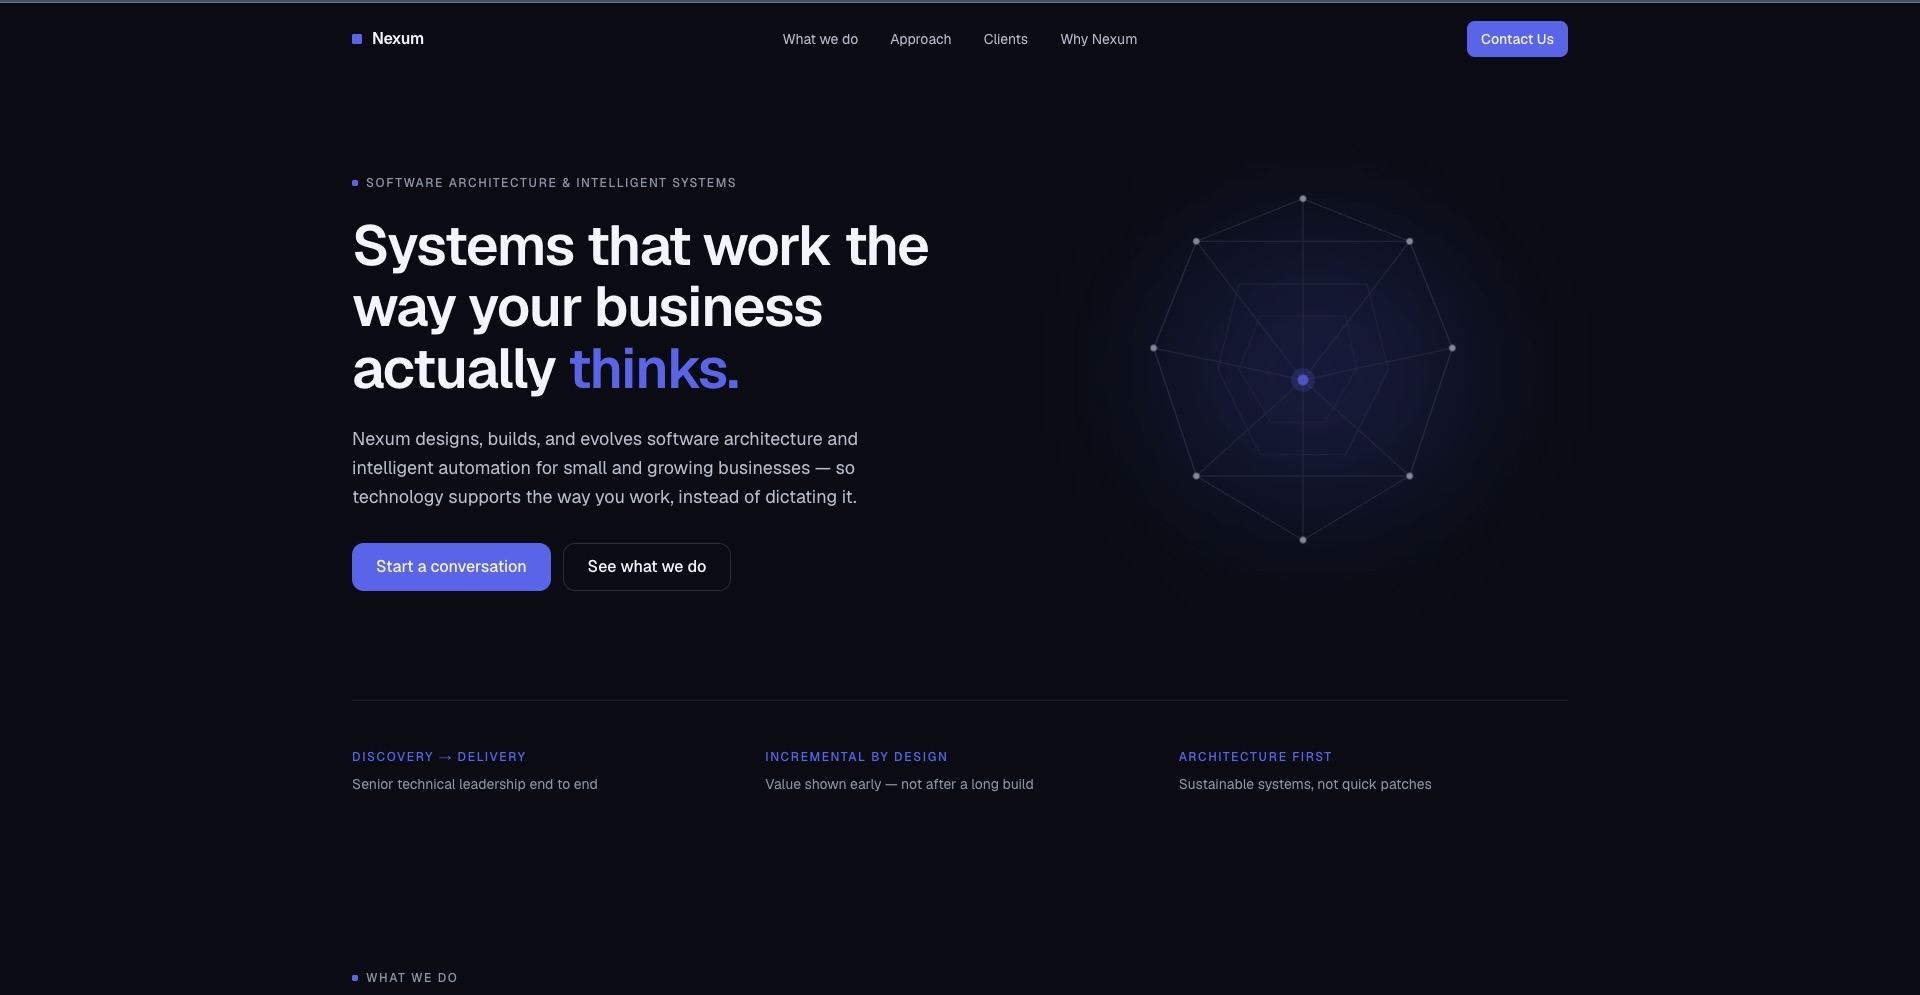
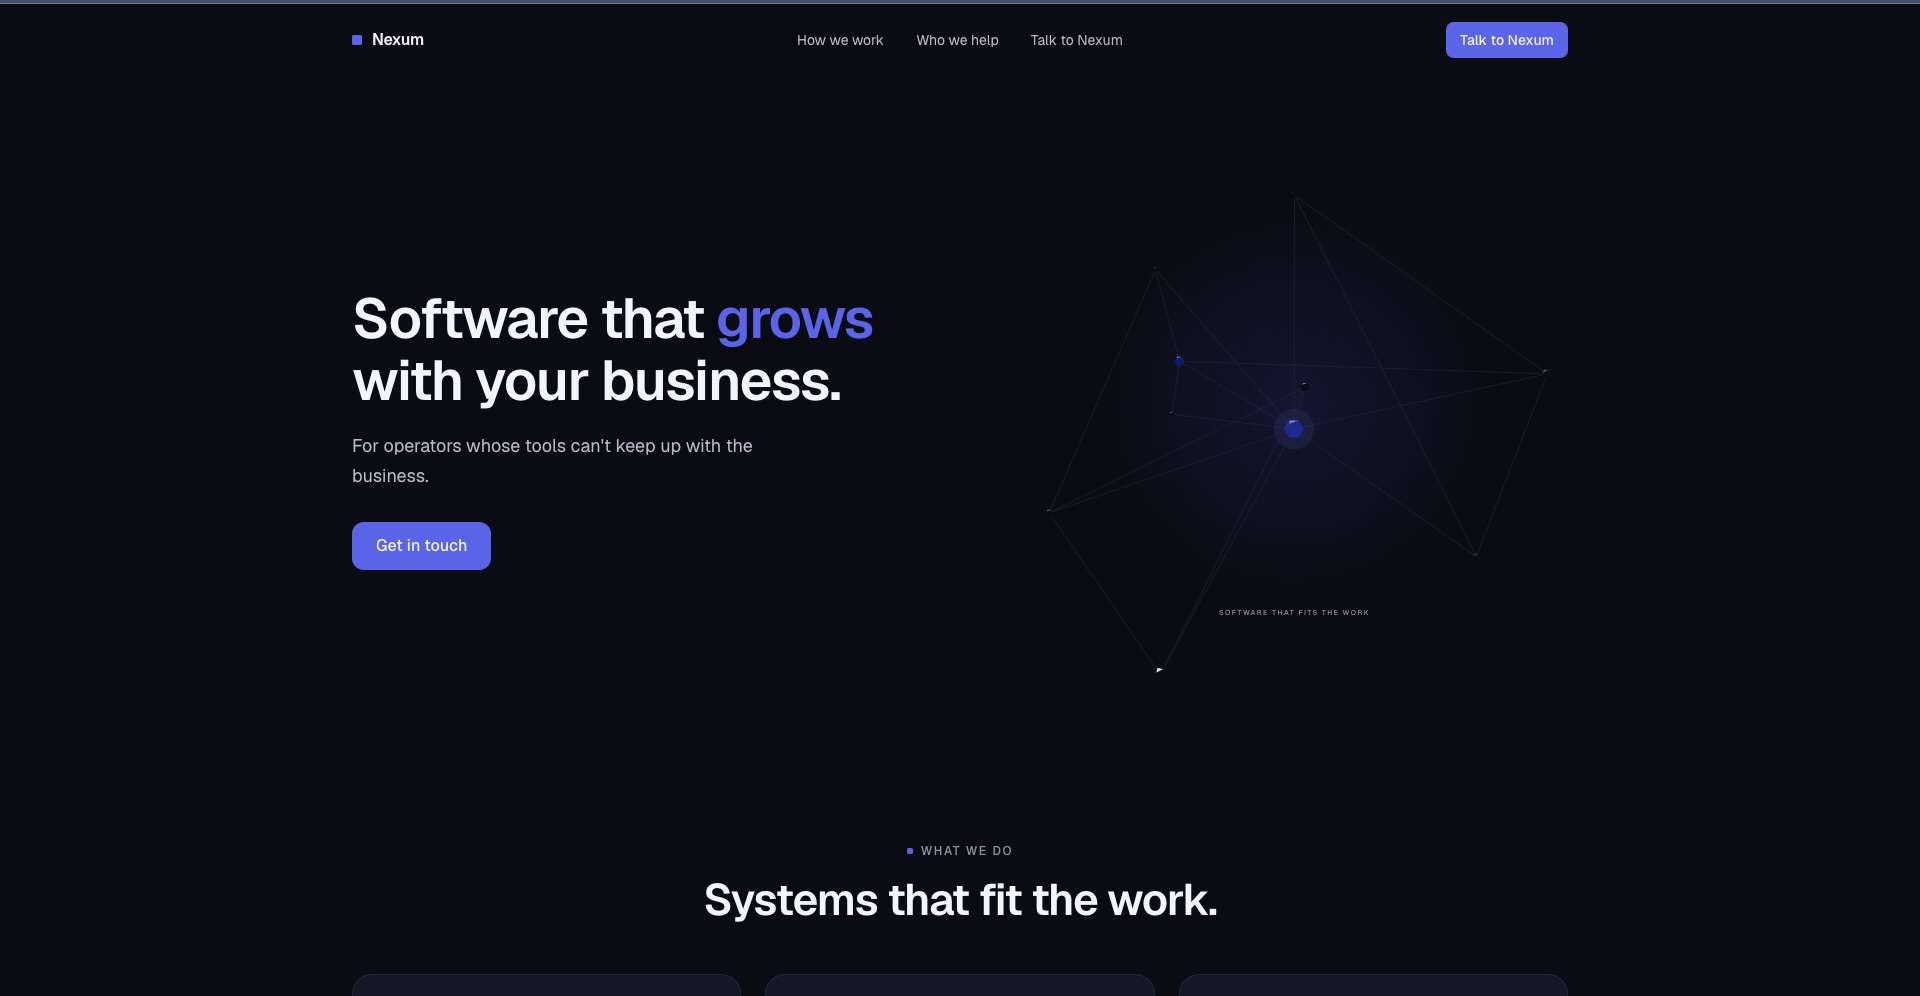
Refine Work flagship and site copy for a calmer, more formal voice.
Update Nexum screenshots and credit, tighten Hero/About/Contact wording, and simplify the Work layout to match the quieter product aesthetic.

diff --git a/components/FlagshipProject.tsx b/components/FlagshipProject.tsx
@@ -1,7 +1,5 @@
 import Image from 'next/image'
 import Link from 'next/link'
-import { TbExternalLink } from 'react-icons/tb'
-import TechTag from './TechTag'
 import type { Project } from '@/utils/projectsData'
 
 type FlagshipProjectProps = {
@@ -18,47 +16,48 @@ const FlagshipProject = ({ project }: FlagshipProjectProps) => {
     secondaryImageAlt,
     tags,
     liveUrl,
-    role = 'Commercial product',
+    role = 'Brand site',
     year,
   } = project
 
   return (
     <article className="w-full">
-      <div className="mb-8 max-w-2xl md:mb-10">
-        <p className="mb-3 text-xs tracking-wide text-accent">
+      <div className="mb-10 max-w-2xl md:mb-14">
+        <p className="mb-4 text-[0.65rem] uppercase tracking-[0.18em] text-body/70">
+          <span className="mr-1.5 text-accent" aria-hidden>
+            •
+          </span>
           {role}
-          {year ? <span className="text-body/60"> · {year} · Solo</span> : null}
+          {year ? ` · ${year}` : null}
         </p>
-        <h3 className="mb-4 font-mono text-3xl text-[#A9A9A9] sm:text-4xl">{title}</h3>
-        <p className="text-sm leading-relaxed text-body sm:text-base">{description}</p>
 
-        <div className="mt-6 flex flex-wrap items-center gap-4">
+        <h3 className="mb-3 font-mono text-3xl text-[#c8cdd3] sm:text-4xl">{title}</h3>
+        <p className="max-w-xl text-sm leading-relaxed text-body sm:text-base">{description}</p>
+
+        <div className="mt-6 flex flex-wrap items-baseline gap-x-6 gap-y-3">
           {liveUrl ? (
             <Link
               href={liveUrl}
               target="_blank"
               rel="noopener noreferrer"
-              className="inline-flex items-center gap-2 border border-accent/40 bg-accent/10 px-4 py-2 text-xs text-accent transition-colors hover:border-accent hover:bg-accent/20"
+              className="text-sm text-accent transition-colors hover:underline"
             >
-              View live site
-              <TbExternalLink size={16} aria-hidden />
+              View live
+              <span aria-hidden className="ml-1.5 text-accent/70">
+                →
+              </span>
             </Link>
           ) : null}
-        </div>
-
-        <div className="mt-5 flex flex-wrap gap-2">
-          {tags.map((tag) => (
-            <TechTag key={tag} label={tag} variant="maroon" />
-          ))}
+          <p className="text-xs leading-relaxed text-body/80">{tags.join(' · ')}</p>
         </div>
       </div>
 
-      <div className="relative">
+      <div className="flex flex-col gap-6 md:gap-8">
         <Link
           href={liveUrl ?? '#'}
           target="_blank"
           rel="noopener noreferrer"
-          className="group block overflow-hidden rounded-xl border border-white/10 shadow-lg shadow-black/30"
+          className="group block overflow-hidden rounded-2xl border border-white/[0.08]"
           aria-label={`Open ${title} live site`}
         >
           <Image
@@ -66,22 +65,20 @@ const FlagshipProject = ({ project }: FlagshipProjectProps) => {
             alt={imageAlt}
             width={1920}
             height={995}
-            className="h-auto w-full object-cover transition-transform duration-500 ease-out group-hover:scale-[1.015]"
+            className="h-auto w-full object-cover transition-opacity duration-500 ease-out group-hover:opacity-95"
             priority
           />
         </Link>
 
         {secondaryImageSrc ? (
-          <div className="mt-4 md:-mt-16 md:ml-auto md:w-[72%] md:pr-0">
-            <div className="overflow-hidden rounded-xl border border-white/10 shadow-xl shadow-black/40 md:ring-1 md:ring-white/5">
-              <Image
-                src={secondaryImageSrc}
-                alt={secondaryImageAlt ?? `${title} detail`}
-                width={1920}
-                height={995}
-                className="h-auto w-full object-cover"
-              />
-            </div>
+          <div className="overflow-hidden rounded-2xl border border-white/[0.08]">
+            <Image
+              src={secondaryImageSrc}
+              alt={secondaryImageAlt ?? `${title} detail`}
+              width={1920}
+              height={995}
+              className="h-auto w-full object-cover"
+            />
           </div>
         ) : null}
       </div>

diff --git a/components/About.tsx b/components/About.tsx
@@ -25,20 +25,18 @@ const About = () => {
         <div className="notification w-full max-w-none">
           <div className="notibody prose-width w-full text-sm leading-relaxed">
             <p>
-              Hi, I&apos;m Dan. My path into web development started in 2015 with a
-              &lsquo;coding-dictionary&rsquo; that turned out to be an HTML &amp; CSS textbook
-              - I&apos;ve been building ever since.
+              Hi, I&apos;m Dan. I started building for the web in 2015 with a
+              &lsquo;coding-dictionary&rsquo; that was really an HTML &amp; CSS textbook
+              - I&apos;ve been at it since.
             </p>
             <br />
             <p>
-              Aside from technology, I&apos;m driven by work that makes people&apos;s lives
-              easier. I explored nursing before finding where I&apos;m most at home: software
-              that solves real user needs.
+              I care about work that makes people&apos;s lives easier. Nursing came first;
+              software stuck, where technology meets real user needs.
             </p>
             <br />
             <p>
-              I hold a Master&apos;s in Computer Science from Coventry University and have
-              worked across a{' '}
+              Master&apos;s in Computer Science (Coventry). I&apos;ve worked across a{' '}
               <Link target="_blank" className="text-accent" href="https://signapse.ai">
                 start-up
               </Link>
@@ -46,8 +44,8 @@ const About = () => {
               <Link target="_blank" className="text-accent" href="https://conigital.org">
                 scale-up
               </Link>
-              , and enterprise at <span className="text-accent">Oasis Group</span> — from video
-              platforms and microservices to secure, public-facing web products.
+              , and enterprise at <span className="text-accent">Oasis Group</span>: video
+              platforms, microservices, and public-facing products.
             </p>
           </div>
         </div>

diff --git a/utils/projectsData.ts b/utils/projectsData.ts
@@ -19,16 +19,16 @@ export const projectsData: Project[] = [
   {
     title: 'Nexum',
     description:
-      'A commercial site for software architecture and intelligent systems consulting. Designed and built end to end — brand positioning, messaging, and a conversion-led experience that reads senior without looking agency-generic.',
+      'Commercial website for Nexum, a software consulting practice. Designed in collaboration with a design partner; I led the engineering and production delivery.',
     imageSrc: '/nexum1.jpeg',
-    imageAlt: 'Nexum hero — software architecture landing page',
+    imageAlt: 'Nexum hero, software that grows with your business',
     secondaryImageSrc: '/nexum2.jpeg',
-    secondaryImageAlt: 'Nexum services grid — eight engagement entry points',
+    secondaryImageAlt: 'Nexum contact, speak with an architect',
     tags: ['Next.js', 'TypeScript', 'Tailwind', 'Framer Motion', 'Resend'],
     liveUrl: 'https://nexum-sepia.vercel.app/',
     featured: true,
     flagship: true,
-    role: 'Commercial brand site',
+    role: 'Brand site',
     year: '2026',
   },
   {

diff --git a/components/Hero.tsx b/components/Hero.tsx
@@ -11,10 +11,9 @@ const Hero = () => {
         </p>
         <h1 className="font-mono text-3xl text-body sm:text-5xl xl:text-7xl">Dan Phylbert</h1>
         <p className="mt-5 text-sm leading-relaxed text-body sm:text-base">
-          I&apos;m a software engineer focused on connected TV platforms. At{' '}
-          <span className="text-accent">FX Digital</span>, I build TypeScript and Lightning.js
-          experiences for streaming applications — authentication, subscriptions, and platform
-          integrations in production.
+          Software engineer building connected-TV products at{' '}
+          <span className="text-accent">FX Digital</span>. TypeScript and Lightning.js in
+          production.
         </p>
         <AnimatedButton />
       </div>

diff --git a/components/Contact.tsx b/components/Contact.tsx
@@ -8,8 +8,7 @@ const Contact = () => {
       <SectionHeading number="04" title="Contact" />
       <div className="prose-width">
         <p className="mb-6 text-sm leading-relaxed text-body sm:text-base">
-          Currently open to roles and collaborations where product craft and delivery matter. Prefer
-          email.
+          Open to roles and collaborations. Prefer email.
         </p>
         <Link
           href="mailto:danphylbert@gmail.com"

diff --git a/components/Projects.tsx b/components/Projects.tsx
@@ -5,7 +5,7 @@ import { flagshipProject } from '@/utils/projectsData'
 
 const Projects = () => {
   return (
-    <Section id="project" className="pb-20 md:pb-28">
+    <Section id="project" className="pb-24 md:pb-32">
       <SectionHeading number="03" title="Work" />
       {flagshipProject ? <FlagshipProject project={flagshipProject} /> : null}
     </Section>
